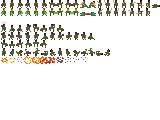
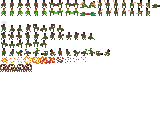
add dumb cows

Changed region(s): [[0.0, 0.525, 0.2188, 0.6]]

diff --git a/src/entities/Cow.js b/src/entities/Cow.js
@@ -1,0 +1,113 @@
+const Phaser = window.Phaser;
+
+import Health from "../components/Health";
+import State from "../State";
+import Tween from "../Tween";
+import Particles from "../Particles";
+
+class Cow extends Phaser.Sprite {
+
+  walkSpeed = 1.5;
+
+  constructor (game, xtile, ytile, bmax) {
+    super(game, xtile * 32, ytile * 32, "peeps");
+
+    this.bmax = bmax;
+    this.state = new State("idle");
+
+    this.shadow = game.add.sprite(this.x, this.y + 8, "peeps");
+    this.shadow.frame = 40;
+
+    this.bloods = new Particles(game, this.x, this.y, 0, "icons4x4", 1);
+    this.bloods.emitting = false;
+
+    const walkSpeed = 5;
+    this.animations.add("idle", [160], walkSpeed, true);
+    this.animations.add("walk_right", [160, 161], walkSpeed, true);
+    this.animations.add("walk_left", [162, 163], walkSpeed, true);
+    this.animations.add("walk_up", [160, 161], walkSpeed, true);
+    this.animations.add("walk_down", [162, 163], walkSpeed, true);
+
+    this.animations.play("walk_right");
+
+    this.health = new Health(3, 3, 160);
+    this.health.onHurt = this.onHurt.bind(this);
+    this.health.onDie = this.onDie.bind(this);
+
+    this.direction = new State("right");
+
+    this.hurtPause = 0;
+
+  }
+
+  onHurt (h, max, by) {
+    this.hurtPause = 50;
+    let angle = by.angle - Math.PI / 2 || this.game.math.angleBetween(
+      this.x, this.y,
+      by.x, by.y
+    ) + Math.PI;
+
+    const xo = Math.sin(angle) * 40;
+    const yo = Math.cos(angle) * 40;
+    Tween.to(this, {x: this.x + xo, y: this.y + yo}, 150);
+
+    this.bloods.emitting = true;
+    this.bloods.x = this.x + xo;
+    this.bloods.y = this.y + yo;
+    this.bloodsT && clearTimeout(this.bloodsT);
+    this.bloodsT = setTimeout(() => {
+      this.bloods.emitting = false;
+    }, 600);
+  }
+
+  onDie () {
+    this.state.set("dying");
+  }
+  dead () {
+    const {bmax} = this;
+    const corpse = bmax.perma.create(this.x, this.y, "peeps");
+    corpse.frame = Math.random() < 0.5 ? 30 : 31;
+
+    const {x, y} = bmax.getMobSpawnPoint();
+    this.x = x * 32;
+    this.y = y * 32;
+    this.health.health = this.health.maxHealth;
+    bmax.world.makePath(this, x, y); // lol... damn it.
+  }
+
+  update () {
+    const {animations} = this;
+    const current = this.state.get();
+    const first = this.state.isFirst();
+    switch (current) {
+    case "idle":
+      if (first) {
+        animations.play("idle");
+      }
+      this.state.set("walking");
+      break;
+    case "walking":
+      if (first) {
+        animations.play("walk_left");
+      }
+      break;
+    case "dying":
+      if (this.state.isFirst()) {
+        this.dead();
+      }
+      if (Math.random() < 0.1) {
+        this.state.set("idle");
+      }
+      break;
+    }
+
+    this.shadow.x = this.x;
+    this.shadow.y = this.y + 8;
+  }
+
+  updateWalking () {
+
+  }
+}
+
+export default Cow;

diff --git a/src/screens/World.js b/src/screens/World.js
@@ -5,6 +5,7 @@ import Controls from "../Controls";
 import Player from "../entities/Player";
 import Inventory from "../Inventory";
 import Zombie from "../entities/Zombie";
+import Cow from "../entities/Cow";
 import Floppy from "../entities/Floppy";
 import Plane from "../entities/Plane";
 import Segway from "../entities/Segway";
@@ -136,6 +137,12 @@ void main(void) {
       mobs.add(new Zombie(game, x, y, this));
     }
     this.maingroup.add(this.mobs);
+
+    const animals = this.animals = game.add.group();
+    for (let i = 0; i < 100; i++) {
+      const {x, y} = this.getMobSpawnPoint();
+      animals.add(new Cow(game, x, y, this));
+    }
 
     // TODO: all vehicles updating, all the time.
     this.car = new Segway(game, this.protagonist.x, this.protagonist.y, this.controls);
